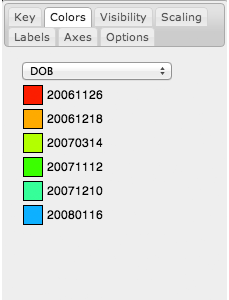
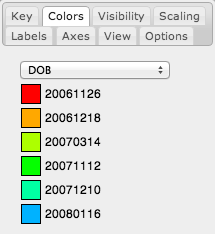
Update index.html and description_index.html
These files now display images with the latest version of Emperor i. e.
post view_menu_2 merge.

It also features a couple corrections that @antgonza made to the main
text.

Changed region(s): [[0.0, 0.0, 1.0, 0.9573], [0.7814, 0.2692, 0.8093, 0.3291]]

diff --git a/doc/description_index.html b/doc/description_index.html
@@ -122,11 +122,11 @@
           <br><br>
           This document tries to go through an overview of the controls that can be found in the graphical user interface as well as some of the common use cases that Emperor allows you to work with.
           <br><br>
-          The graphical user interface is mainly composed by two areas, sample counter (a) the visualization canvas (b) and the tools and settings area (c), see Figure 1.  In the visualization canvas, you’ll find the current plot that you are interacting, by default presenting the first three dimensions of the input data. Modifying the appearance of this plot, can be done using any of the tabs contained in (c).
+          The graphical user interface is mainly composed by two areas, the visualization canvas (b) and the tools and settings area (c), see Figure 1.  In the visualization canvas, you’ll find the current plot that you are interacting, by default presenting the first three dimensions of the input data. Modifying the appearance of this plot, can be done using any of the tabs contained in (c).
         </p>
         <img src="img/description_1.png" alt="Emperor Figure Description">
         <p class="strong" align="justify">
-          Figure 1. Emperor’s graphical user interface. (a) sample counter; shows the total number of samples in the dataset and the number of samples that are currently visible. (b) canvas; main plot scene where the data is displayed. © tools; controls that allow you to modify and interact with your data.
+          Figure 1. Emperor’s graphical user interface. (a) sample counter; shows the total number of samples in the dataset and the number of samples that are currently visible. (b) canvas; main plot scene where the data is displayed. (c) tools; controls that allow you to modify and interact with your data (d) visualization selector; switch between parallel and 3D plots.
         </p>
         <hr>
         <h2>Description</h2>
@@ -163,9 +163,14 @@
             Although Emperor is only capable of displaying three dimensions at a time, the dimensions that are being displayed, can be selected from this menu. To update the plot to reflect the latest changes, you’ll have to click the refresh button.
           </p>
           <p align="center"><img src="img/axes_menu.png" alt="Axes Menu Example"></p>
+        <h3 class="muted">View</h3>
+          <p class="lead" align="justify">
+            General features of a plot as presented by Emperor, are modified from this menu; by default Emperor will try to color samples along a continuous color gradient, to turn this option off, select “Use discrete colors”. The sphere opacity and sphere scale controls override the options in Scaling and Visibility tabs.
+          </p>
+          <p align="center"><img src="img/view_menu.png" alt="Options Menu Example"></p>
         <h3 class="muted">Options</h3>
           <p class="lead" align="justify">
-            The different options that will affect the overall plot as it is are listed under this tab. Scaling the coordinates by the percent explained, will re-scale the data by multiplying all the values in that dimension by the ratio explained. By default Emperor will try to color samples along a continuous color gradient, to turn this option off, select “Use discrete colors”. The sphere opacity and sphere scale controls override the options in Scaling and Visibility tabs. The last control under this list is the background color of the plot, similarly to changing the color the samples clicking in the box will present a color palette to select a new color.
+            The different options that will affect the overall plot as it is are listed under this tab. Scaling the coordinates by the percent explained, will re-scale the data by multiplying all the values in that dimension by the ratio explained.
           </p>
           <p align="center"><img src="img/options_menu.png" alt="Options Menu Example"></p>
       <hr>

diff --git a/doc/index.html b/doc/index.html
@@ -120,7 +120,7 @@
         </p>
         <img src="img/sample_1.png" alt="Emperor">
         <p class="lead" align="justify">
-          Thanks to it’s tailor-made graphical user interface, delving into a new dataset to elucidate the patterns hidden in the data, has never been easier. Emperor brings a rich set of customizations and modifications that can be integrated into any <a href="http://qiime.org">QIIME</a> compliant dataset; with lightweight data files and hardware accelerated graphics, constitutes itself as the state of the art for analyzing N-dimensional data using principal coordinates analysis.
+          Due to it’s tailor-made graphical user interface, delving into a new dataset to elucidate the patterns hidden in the data, has never been easier. Emperor brings a rich set of customizations and modifications that can be integrated into any <a href="http://qiime.org">QIIME</a> compliant dataset; with lightweight data files and hardware accelerated graphics, constitutes itself as the state of the art for analyzing N-dimensional data using principal coordinates analysis.
         </p>
       </div>
 
@@ -130,7 +130,7 @@
       <div class="row-fluid">
         <div class="span4">
           <h2>Biplots</h2>
-          <p>Seeing the taxa that is the most prevalent in a PCoA plot, can be easily elucidated making use of the biplot functionality that Emperor supports.</p>
+          <p>Visualizing the taxa that is the most prevalent in a PCoA plot, can be easily elucidated making use of the biplot functionality that Emperor supports.</p>
           <p><a class="btn" href="http://emperor.colorado.edu/biplot/index.html">Biplots Example &raquo;</a></p>
         </div>
         <div class="span4">
